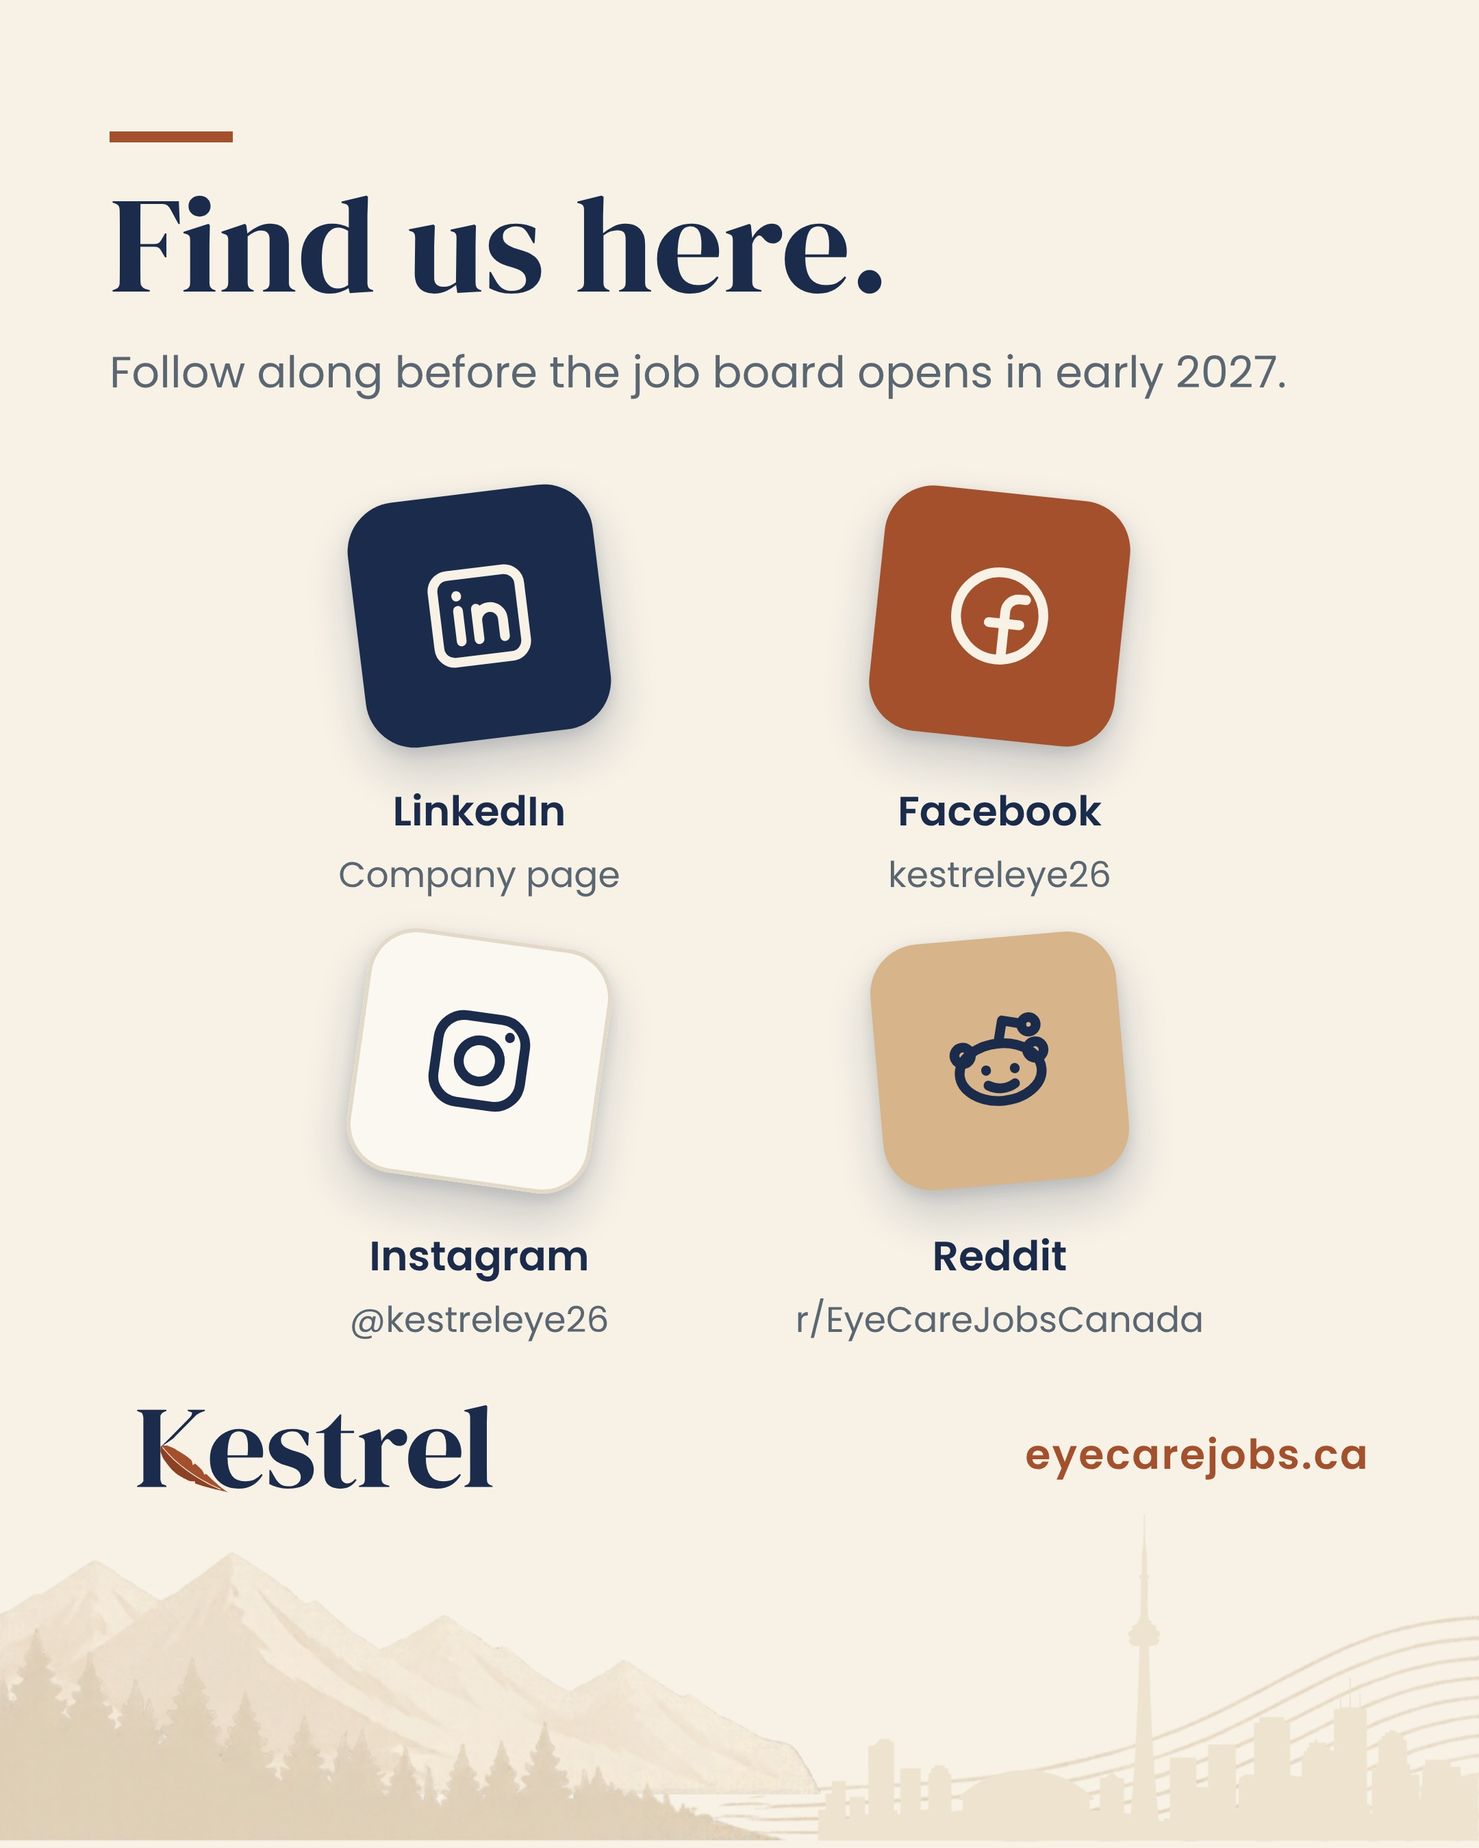
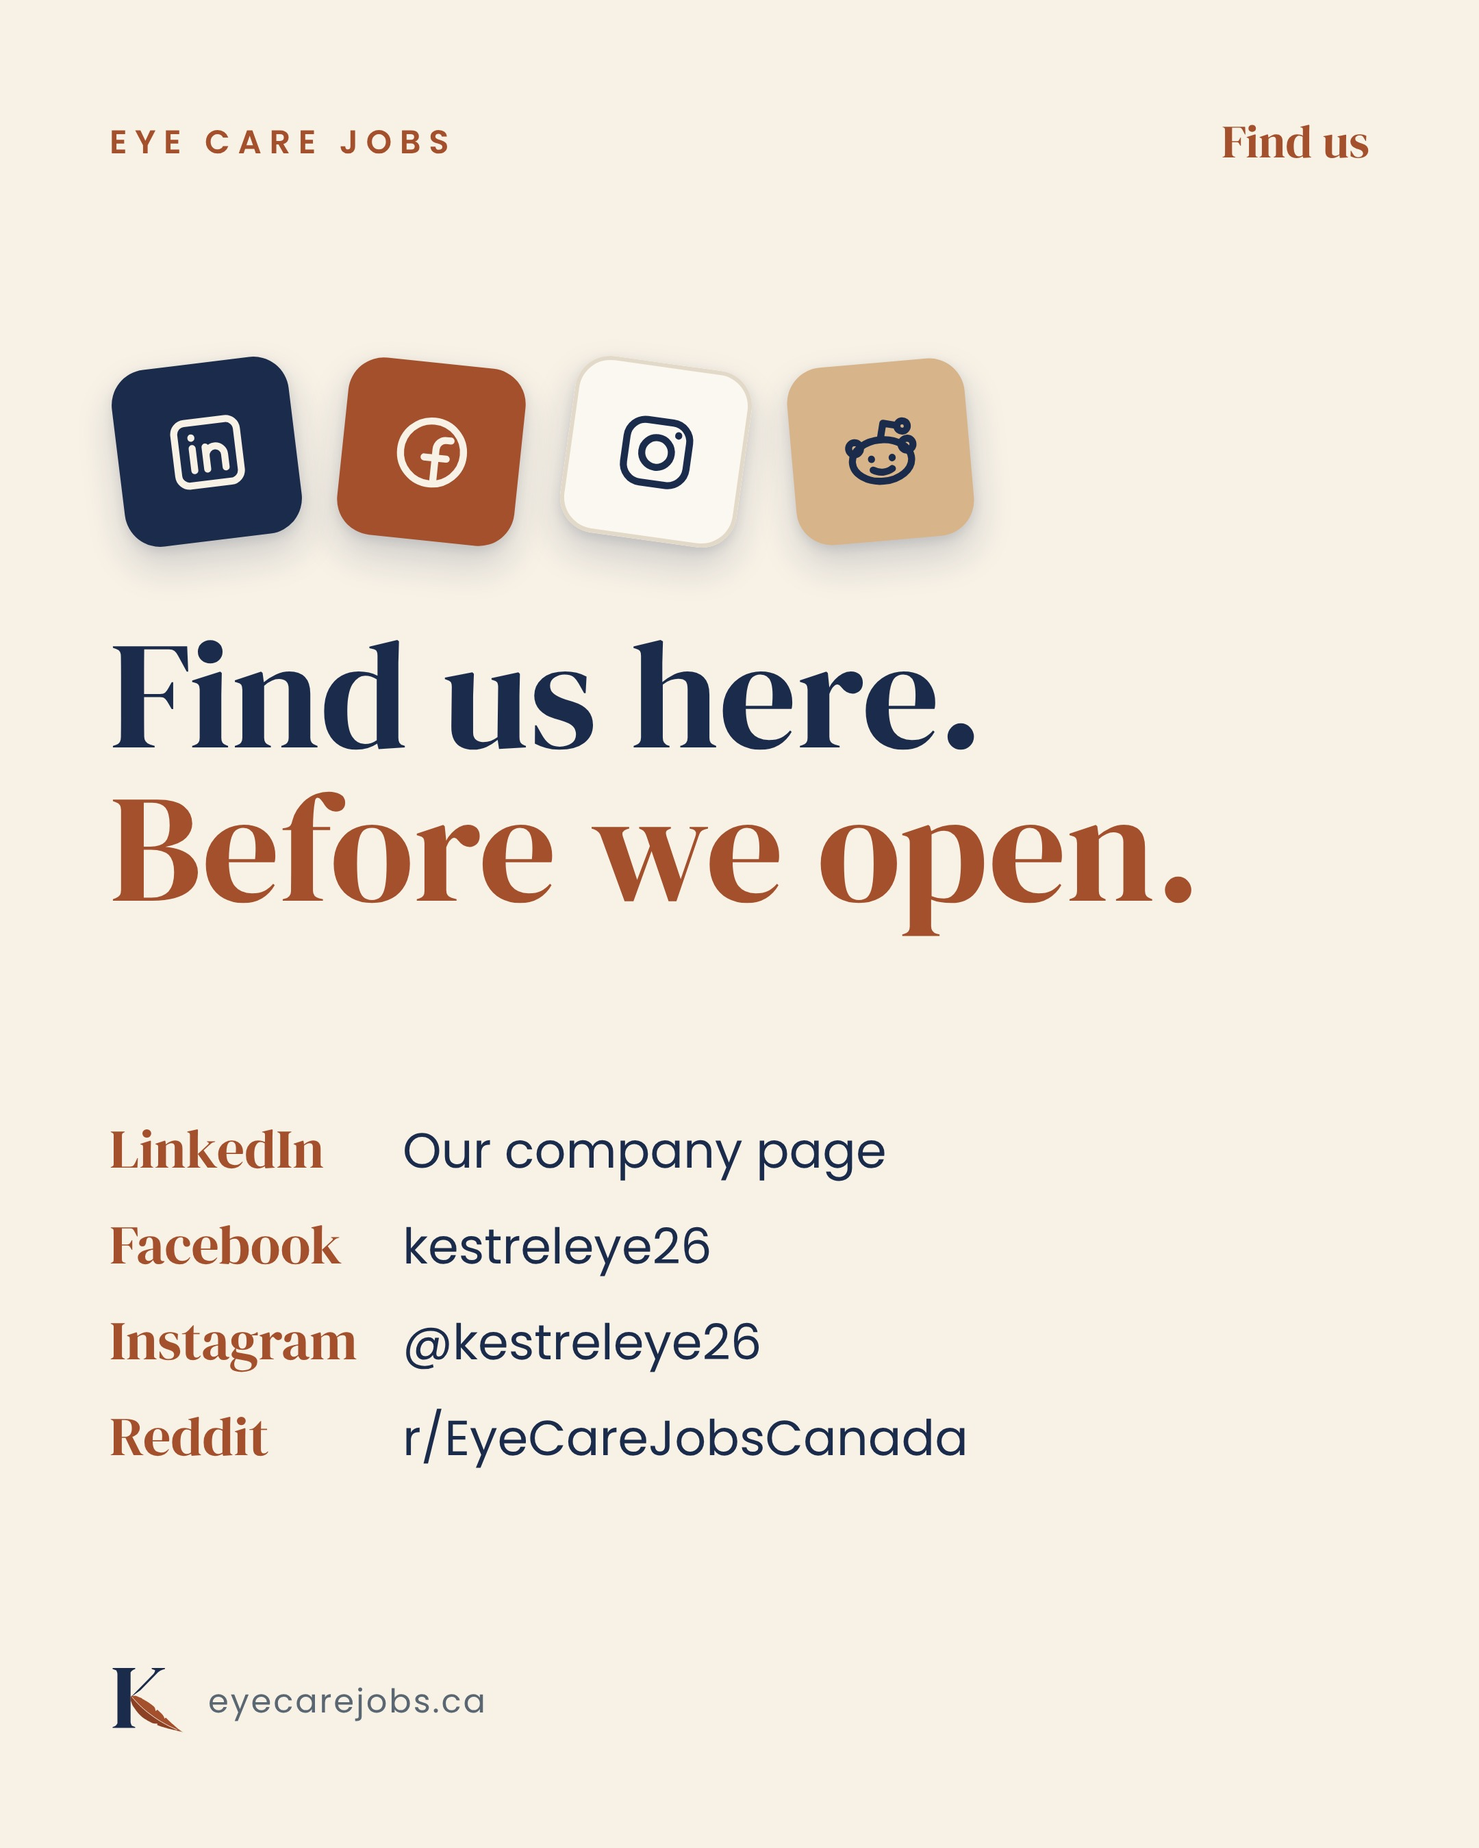
Instagram find us post: rebuilt in the guide card frame to match the live grid
Claude-Session: https://claude.ai/code/session_01K4dgNT44d6ujsE4qjnTdTu

diff --git a/design/social-and-merch/instagram-guides/find-us-a-grid.html b/design/social-and-merch/instagram-guides/find-us-a-grid.html
@@ -2,39 +2,29 @@
 @font-face{font-family:'DM Serif Display';src:url(file:///home/user/Kestrel/node_modules/@fontsource/dm-serif-display/files/dm-serif-display-latin-400-normal.woff2)}
 @font-face{font-family:Poppins;font-weight:400;src:url(file:///home/user/Kestrel/node_modules/@fontsource/poppins/files/poppins-latin-400-normal.woff2)}
 @font-face{font-family:Poppins;font-weight:600;src:url(file:///home/user/Kestrel/node_modules/@fontsource/poppins/files/poppins-latin-600-normal.woff2)}
-html,body{margin:0}</style></head><body>
-<div style="width:1080px;height:1350px;position:relative;overflow:hidden;background:#F7F1E6">
-<div style="position:absolute;left:80px;top:96px;width:90px;height:8px;background:#A4502C"></div>
-<p style="position:absolute;left:80px;top:128px;margin:0;font-family:'DM Serif Display';font-size:100px;line-height:1;color:#1B2B4B">Find us here.</p>
-<p style="position:absolute;left:80px;top:250px;width:880px;margin:0;font-family:Poppins;font-size:32px;line-height:1.4;color:#5A6672">Follow along before the job board opens in early 2027.</p>
-<div style="position:absolute;left:260px;top:360px;width:180px;text-align:center">
-  <div style="width:180px;height:180px;border-radius:36px;background:#1B2B4B;transform:rotate(-7deg);display:flex;align-items:center;justify-content:center;box-shadow: 0 18px 34px rgba(27,43,75,.20), 0 4px 10px rgba(27,43,75,.12)">
-    <svg viewBox="0 0 24 24" width="90" height="90" fill="none" stroke="#F7F1E6" stroke-width="1.9" stroke-linecap="round" stroke-linejoin="round"><rect x="3.5" y="3.5" width="17" height="17" rx="3"/><path d="M8 10.5V16.5M8 7.6v.1"/><path d="M11.5 16.5v-6M11.5 13a2.5 2.5 0 0 1 5 0v3.5"/></svg>
-  </div>
-  <p style="margin:30px -60px 0;font-family:Poppins;font-weight:600;font-size:30px;color:#1B2B4B">LinkedIn</p>
-  <p style="margin:4px -80px 0;font-family:Poppins;font-size:26px;color:#5A6672">Company page</p>
+body{margin:0}</style></head><body>
+<div style="width:1080px;height:1350px;box-sizing:border-box;padding:80px;background:#F7F1E6;display:flex;flex-direction:column;justify-content:space-between">
+<div style="display:flex;justify-content:space-between;align-items:center">
+<p style="margin:0;font-family:Poppins;font-weight:600;font-size:24px;letter-spacing:0.24em;color:#A4502C">EYE CARE JOBS</p>
+<p style="margin:0;font-family:'DM Serif Display';font-size:34px;color:#A4502C">Find us</p>
 </div>
-<div style="position:absolute;left:640px;top:360px;width:180px;text-align:center">
-  <div style="width:180px;height:180px;border-radius:36px;background:#A4502C;transform:rotate(6deg);display:flex;align-items:center;justify-content:center;box-shadow: 0 18px 34px rgba(27,43,75,.20), 0 4px 10px rgba(27,43,75,.12)">
-    <svg viewBox="0 0 24 24" width="90" height="90" fill="none" stroke="#F7F1E6" stroke-width="1.9" stroke-linecap="round" stroke-linejoin="round"><circle cx="12" cy="12" r="8.5"/><path d="M13 20.4V11a2.6 2.6 0 0 1 2.6-2.6h1.2"/><path d="M10 13.4h6"/></svg>
-  </div>
-  <p style="margin:30px -60px 0;font-family:Poppins;font-weight:600;font-size:30px;color:#1B2B4B">Facebook</p>
-  <p style="margin:4px -80px 0;font-family:Poppins;font-size:26px;color:#5A6672">kestreleye26</p>
+<div style="display:flex;flex-direction:column;gap:56px">
+<div style="display:flex;gap:34px;padding-left:6px">
+<div style="width:130px;height:130px;flex:none;border-radius:26px;background:#1B2B4B;transform:rotate(-7deg);display:flex;align-items:center;justify-content:center;box-shadow: 0 14px 28px rgba(27,43,75,.18), 0 3px 8px rgba(27,43,75,.10)">
+  <svg viewBox="0 0 24 24" width="65" height="65" fill="none" stroke="#F7F1E6" stroke-width="1.9" stroke-linecap="round" stroke-linejoin="round"><rect x="3.5" y="3.5" width="17" height="17" rx="3"/><path d="M8 10.5V16.5M8 7.6v.1"/><path d="M11.5 16.5v-6M11.5 13a2.5 2.5 0 0 1 5 0v3.5"/></svg>
 </div>
-<div style="position:absolute;left:260px;top:685px;width:180px;text-align:center">
-  <div style="width:180px;height:180px;border-radius:36px;background:#FBF8F2;transform:rotate(8deg);display:flex;align-items:center;justify-content:center;box-shadow:inset 0 0 0 3px #E3D9C8, 0 18px 34px rgba(27,43,75,.20), 0 4px 10px rgba(27,43,75,.12)">
-    <svg viewBox="0 0 24 24" width="90" height="90" fill="none" stroke="#1B2B4B" stroke-width="1.9" stroke-linecap="round" stroke-linejoin="round"><rect x="3.5" y="3.5" width="17" height="17" rx="5"/><circle cx="12" cy="12" r="4"/><path d="M17.3 6.7v.1"/></svg>
-  </div>
-  <p style="margin:30px -60px 0;font-family:Poppins;font-weight:600;font-size:30px;color:#1B2B4B">Instagram</p>
-  <p style="margin:4px -80px 0;font-family:Poppins;font-size:26px;color:#5A6672">@kestreleye26</p>
+<div style="width:130px;height:130px;flex:none;border-radius:26px;background:#A4502C;transform:rotate(6deg);display:flex;align-items:center;justify-content:center;box-shadow: 0 14px 28px rgba(27,43,75,.18), 0 3px 8px rgba(27,43,75,.10)">
+  <svg viewBox="0 0 24 24" width="65" height="65" fill="none" stroke="#F7F1E6" stroke-width="1.9" stroke-linecap="round" stroke-linejoin="round"><circle cx="12" cy="12" r="8.5"/><path d="M13 20.4V11a2.6 2.6 0 0 1 2.6-2.6h1.2"/><path d="M10 13.4h6"/></svg>
 </div>
-<div style="position:absolute;left:640px;top:685px;width:180px;text-align:center">
-  <div style="width:180px;height:180px;border-radius:36px;background:#D8B48A;transform:rotate(-5deg);display:flex;align-items:center;justify-content:center;box-shadow: 0 18px 34px rgba(27,43,75,.20), 0 4px 10px rgba(27,43,75,.12)">
-    <svg viewBox="0 0 24 24" width="90" height="90" fill="none" stroke="#1B2B4B" stroke-width="1.9" stroke-linecap="round" stroke-linejoin="round"><ellipse cx="12" cy="14.2" rx="8" ry="5.6"/><path d="M9.2 13.6v.1M14.8 13.6v.1"/><path d="M9.4 16.6c1.6 1 3.6 1 5.2 0"/><path d="M12 8.6 13.1 4.2l3.6.9"/><circle cx="18.2" cy="5.4" r="1.4"/><circle cx="4.9" cy="10.4" r="1.6"/><circle cx="19.1" cy="10.4" r="1.6"/></svg>
-  </div>
-  <p style="margin:30px -60px 0;font-family:Poppins;font-weight:600;font-size:30px;color:#1B2B4B">Reddit</p>
-  <p style="margin:4px -80px 0;font-family:Poppins;font-size:26px;color:#5A6672">r/EyeCareJobsCanada</p>
+<div style="width:130px;height:130px;flex:none;border-radius:26px;background:#FBF8F2;transform:rotate(8deg);display:flex;align-items:center;justify-content:center;box-shadow:inset 0 0 0 3px #E3D9C8, 0 14px 28px rgba(27,43,75,.18), 0 3px 8px rgba(27,43,75,.10)">
+  <svg viewBox="0 0 24 24" width="65" height="65" fill="none" stroke="#1B2B4B" stroke-width="1.9" stroke-linecap="round" stroke-linejoin="round"><rect x="3.5" y="3.5" width="17" height="17" rx="5"/><circle cx="12" cy="12" r="4"/><path d="M17.3 6.7v.1"/></svg>
 </div>
-<img src="file:///home/user/Kestrel/public/skyline.png" alt="" style="position:absolute;left:0;bottom:0;width:1080px;display:block">
-<img src="file:///home/user/Kestrel/public/brand/kestrel-wordmark.svg" alt="" style="position:absolute;left:80px;top:1018px;width:300px;display:block">
-<p style="position:absolute;right:80px;top:1040px;margin:0;font-family:Poppins;font-weight:600;font-size:30px;letter-spacing:0.04em;color:#A4502C">eyecarejobs.ca</p></div></body></html>
+<div style="width:130px;height:130px;flex:none;border-radius:26px;background:#D8B48A;transform:rotate(-5deg);display:flex;align-items:center;justify-content:center;box-shadow: 0 14px 28px rgba(27,43,75,.18), 0 3px 8px rgba(27,43,75,.10)">
+  <svg viewBox="0 0 24 24" width="65" height="65" fill="none" stroke="#1B2B4B" stroke-width="1.9" stroke-linecap="round" stroke-linejoin="round"><ellipse cx="12" cy="14.2" rx="8" ry="5.6"/><path d="M9.2 13.6v.1M14.8 13.6v.1"/><path d="M9.4 16.6c1.6 1 3.6 1 5.2 0"/><path d="M12 8.6 13.1 4.2l3.6.9"/><circle cx="18.2" cy="5.4" r="1.4"/><circle cx="4.9" cy="10.4" r="1.6"/><circle cx="19.1" cy="10.4" r="1.6"/></svg>
+</div></div>
+<p style="margin:0;font-family:'DM Serif Display';font-size:112px;line-height:1;color:#1B2B4B">Find us here.<br><span style="color:#A4502C">Before we open.</span></p></div>
+<ol style="list-style:none;margin:0;padding:0;display:flex;flex-direction:column;gap:18px"><li style="display:flex;gap:24px;align-items:baseline;font-family:Poppins;font-size:36px;line-height:1.3;color:#1B2B4B"><span style="font-family:'DM Serif Display';font-size:40px;color:#A4502C;min-width:190px">LinkedIn</span>Our company page</li><li style="display:flex;gap:24px;align-items:baseline;font-family:Poppins;font-size:36px;line-height:1.3;color:#1B2B4B"><span style="font-family:'DM Serif Display';font-size:40px;color:#A4502C;min-width:190px">Facebook</span>kestreleye26</li><li style="display:flex;gap:24px;align-items:baseline;font-family:Poppins;font-size:36px;line-height:1.3;color:#1B2B4B"><span style="font-family:'DM Serif Display';font-size:40px;color:#A4502C;min-width:190px">Instagram</span>@kestreleye26</li><li style="display:flex;gap:24px;align-items:baseline;font-family:Poppins;font-size:36px;line-height:1.3;color:#1B2B4B"><span style="font-family:'DM Serif Display';font-size:40px;color:#A4502C;min-width:190px">Reddit</span>r/EyeCareJobsCanada</li></ol>
+<div style="display:flex;align-items:center;gap:16px">
+<img src="file:///home/user/Kestrel/public/brand/kestrel-k-mark.svg" alt="" style="width:56px;height:56px;display:block">
+<p style="margin:0;font-family:Poppins;font-size:24px;letter-spacing:0.06em;color:#5A6672">eyecarejobs.ca</p>
+</div></div></body></html>

diff --git a/design/social-and-merch/instagram-guides/find-us-b-row.html b/design/social-and-merch/instagram-guides/find-us-b-row.html
@@ -2,38 +2,28 @@
 @font-face{font-family:'DM Serif Display';src:url(file:///home/user/Kestrel/node_modules/@fontsource/dm-serif-display/files/dm-serif-display-latin-400-normal.woff2)}
 @font-face{font-family:Poppins;font-weight:400;src:url(file:///home/user/Kestrel/node_modules/@fontsource/poppins/files/poppins-latin-400-normal.woff2)}
 @font-face{font-family:Poppins;font-weight:600;src:url(file:///home/user/Kestrel/node_modules/@fontsource/poppins/files/poppins-latin-600-normal.woff2)}
-html,body{margin:0}</style></head><body>
-<div style="width:1080px;height:1350px;position:relative;overflow:hidden;background:#F7F1E6">
-<div style="position:absolute;left:80px;top:96px;width:90px;height:8px;background:#A4502C"></div>
-<p style="position:absolute;left:80px;top:128px;margin:0;font-family:'DM Serif Display';font-size:100px;line-height:1;color:#1B2B4B">Find us here.</p>
-<p style="position:absolute;left:80px;top:250px;width:880px;margin:0;font-family:Poppins;font-size:32px;line-height:1.4;color:#5A6672">Follow along before the job board opens in early 2027.</p>
-<div style="position:absolute;left:85px;top:465px;width:190px;text-align:center">
-  <div style="width:190px;height:190px;border-radius:38px;background:#1B2B4B;transform:rotate(-7deg);display:flex;align-items:center;justify-content:center;box-shadow: 0 18px 34px rgba(27,43,75,.20), 0 4px 10px rgba(27,43,75,.12)">
-    <svg viewBox="0 0 24 24" width="95" height="95" fill="none" stroke="#F7F1E6" stroke-width="1.9" stroke-linecap="round" stroke-linejoin="round"><rect x="3.5" y="3.5" width="17" height="17" rx="3"/><path d="M8 10.5V16.5M8 7.6v.1"/><path d="M11.5 16.5v-6M11.5 13a2.5 2.5 0 0 1 5 0v3.5"/></svg>
-  </div>
-  
+body{margin:0}</style></head><body>
+<div style="width:1080px;height:1350px;box-sizing:border-box;padding:80px;background:#F7F1E6;display:flex;flex-direction:column;justify-content:space-between">
+<div style="display:flex;justify-content:space-between;align-items:center">
+<p style="margin:0;font-family:Poppins;font-weight:600;font-size:24px;letter-spacing:0.24em;color:#A4502C">EYE CARE JOBS</p>
+<p style="margin:0;font-family:'DM Serif Display';font-size:34px;color:#A4502C">Find us</p>
 </div>
-<div style="position:absolute;left:325px;top:545px;width:190px;text-align:center">
-  <div style="width:190px;height:190px;border-radius:38px;background:#A4502C;transform:rotate(6deg);display:flex;align-items:center;justify-content:center;box-shadow: 0 18px 34px rgba(27,43,75,.20), 0 4px 10px rgba(27,43,75,.12)">
-    <svg viewBox="0 0 24 24" width="95" height="95" fill="none" stroke="#F7F1E6" stroke-width="1.9" stroke-linecap="round" stroke-linejoin="round"><circle cx="12" cy="12" r="8.5"/><path d="M13 20.4V11a2.6 2.6 0 0 1 2.6-2.6h1.2"/><path d="M10 13.4h6"/></svg>
-  </div>
-  
+<div style="display:flex;flex-direction:column;gap:44px"><p style="margin:0;font-family:'DM Serif Display';font-size:112px;line-height:1;color:#1B2B4B">Find us here.<br><span style="color:#A4502C">Before we open.</span></p>
+<p style="margin:0;font-family:Poppins;font-size:34px;line-height:1.4;color:#5A6672">Facebook and Instagram as kestreleye26, our LinkedIn company page, and our community on Reddit, r/EyeCareJobsCanada.</p></div>
+<div style="display:flex;gap:44px;justify-content:center">
+<div style="width:185px;height:185px;flex:none;border-radius:37px;background:#1B2B4B;transform:rotate(-7deg);display:flex;align-items:center;justify-content:center;box-shadow: 0 14px 28px rgba(27,43,75,.18), 0 3px 8px rgba(27,43,75,.10)">
+  <svg viewBox="0 0 24 24" width="93" height="93" fill="none" stroke="#F7F1E6" stroke-width="1.9" stroke-linecap="round" stroke-linejoin="round"><rect x="3.5" y="3.5" width="17" height="17" rx="3"/><path d="M8 10.5V16.5M8 7.6v.1"/><path d="M11.5 16.5v-6M11.5 13a2.5 2.5 0 0 1 5 0v3.5"/></svg>
 </div>
-<div style="position:absolute;left:565px;top:465px;width:190px;text-align:center">
-  <div style="width:190px;height:190px;border-radius:38px;background:#FBF8F2;transform:rotate(8deg);display:flex;align-items:center;justify-content:center;box-shadow:inset 0 0 0 3px #E3D9C8, 0 18px 34px rgba(27,43,75,.20), 0 4px 10px rgba(27,43,75,.12)">
-    <svg viewBox="0 0 24 24" width="95" height="95" fill="none" stroke="#1B2B4B" stroke-width="1.9" stroke-linecap="round" stroke-linejoin="round"><rect x="3.5" y="3.5" width="17" height="17" rx="5"/><circle cx="12" cy="12" r="4"/><path d="M17.3 6.7v.1"/></svg>
-  </div>
-  
+<div style="width:185px;height:185px;flex:none;border-radius:37px;background:#A4502C;transform:rotate(6deg);display:flex;align-items:center;justify-content:center;box-shadow: 0 14px 28px rgba(27,43,75,.18), 0 3px 8px rgba(27,43,75,.10)">
+  <svg viewBox="0 0 24 24" width="93" height="93" fill="none" stroke="#F7F1E6" stroke-width="1.9" stroke-linecap="round" stroke-linejoin="round"><circle cx="12" cy="12" r="8.5"/><path d="M13 20.4V11a2.6 2.6 0 0 1 2.6-2.6h1.2"/><path d="M10 13.4h6"/></svg>
 </div>
-<div style="position:absolute;left:805px;top:545px;width:190px;text-align:center">
-  <div style="width:190px;height:190px;border-radius:38px;background:#D8B48A;transform:rotate(-5deg);display:flex;align-items:center;justify-content:center;box-shadow: 0 18px 34px rgba(27,43,75,.20), 0 4px 10px rgba(27,43,75,.12)">
-    <svg viewBox="0 0 24 24" width="95" height="95" fill="none" stroke="#1B2B4B" stroke-width="1.9" stroke-linecap="round" stroke-linejoin="round"><ellipse cx="12" cy="14.2" rx="8" ry="5.6"/><path d="M9.2 13.6v.1M14.8 13.6v.1"/><path d="M9.4 16.6c1.6 1 3.6 1 5.2 0"/><path d="M12 8.6 13.1 4.2l3.6.9"/><circle cx="18.2" cy="5.4" r="1.4"/><circle cx="4.9" cy="10.4" r="1.6"/><circle cx="19.1" cy="10.4" r="1.6"/></svg>
-  </div>
-  
+<div style="width:185px;height:185px;flex:none;border-radius:37px;background:#FBF8F2;transform:rotate(8deg);display:flex;align-items:center;justify-content:center;box-shadow:inset 0 0 0 3px #E3D9C8, 0 14px 28px rgba(27,43,75,.18), 0 3px 8px rgba(27,43,75,.10)">
+  <svg viewBox="0 0 24 24" width="93" height="93" fill="none" stroke="#1B2B4B" stroke-width="1.9" stroke-linecap="round" stroke-linejoin="round"><rect x="3.5" y="3.5" width="17" height="17" rx="5"/><circle cx="12" cy="12" r="4"/><path d="M17.3 6.7v.1"/></svg>
 </div>
-<div style="position:absolute;left:80px;right:80px;top:790px;display:grid;grid-template-columns:repeat(2,1fr);gap:18px 40px;font-family:Poppins;font-size:28px;color:#5A6672">
-<p style="margin:0"><b style="font-weight:600;color:#1B2B4B">LinkedIn</b>&nbsp; Company page</p><p style="margin:0"><b style="font-weight:600;color:#1B2B4B">Facebook</b>&nbsp; kestreleye26</p><p style="margin:0"><b style="font-weight:600;color:#1B2B4B">Instagram</b>&nbsp; @kestreleye26</p><p style="margin:0"><b style="font-weight:600;color:#1B2B4B">Reddit</b>&nbsp; r/EyeCareJobsCanada</p>
-</div>
-<img src="file:///home/user/Kestrel/public/skyline.png" alt="" style="position:absolute;left:0;bottom:0;width:1080px;display:block">
-<img src="file:///home/user/Kestrel/public/brand/kestrel-wordmark.svg" alt="" style="position:absolute;left:80px;top:1018px;width:300px;display:block">
-<p style="position:absolute;right:80px;top:1040px;margin:0;font-family:Poppins;font-weight:600;font-size:30px;letter-spacing:0.04em;color:#A4502C">eyecarejobs.ca</p></div></body></html>
+<div style="width:185px;height:185px;flex:none;border-radius:37px;background:#D8B48A;transform:rotate(-5deg);display:flex;align-items:center;justify-content:center;box-shadow: 0 14px 28px rgba(27,43,75,.18), 0 3px 8px rgba(27,43,75,.10)">
+  <svg viewBox="0 0 24 24" width="93" height="93" fill="none" stroke="#1B2B4B" stroke-width="1.9" stroke-linecap="round" stroke-linejoin="round"><ellipse cx="12" cy="14.2" rx="8" ry="5.6"/><path d="M9.2 13.6v.1M14.8 13.6v.1"/><path d="M9.4 16.6c1.6 1 3.6 1 5.2 0"/><path d="M12 8.6 13.1 4.2l3.6.9"/><circle cx="18.2" cy="5.4" r="1.4"/><circle cx="4.9" cy="10.4" r="1.6"/><circle cx="19.1" cy="10.4" r="1.6"/></svg>
+</div></div>
+<div style="display:flex;align-items:center;gap:16px">
+<img src="file:///home/user/Kestrel/public/brand/kestrel-k-mark.svg" alt="" style="width:56px;height:56px;display:block">
+<p style="margin:0;font-family:Poppins;font-size:24px;letter-spacing:0.06em;color:#5A6672">eyecarejobs.ca</p>
+</div></div></body></html>
